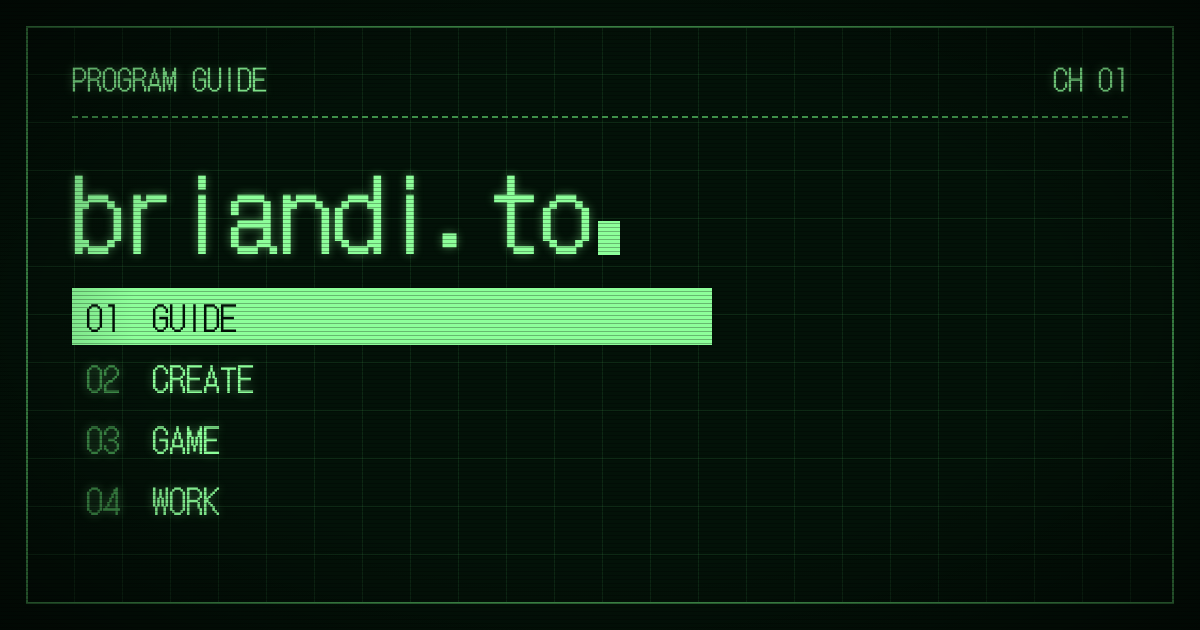
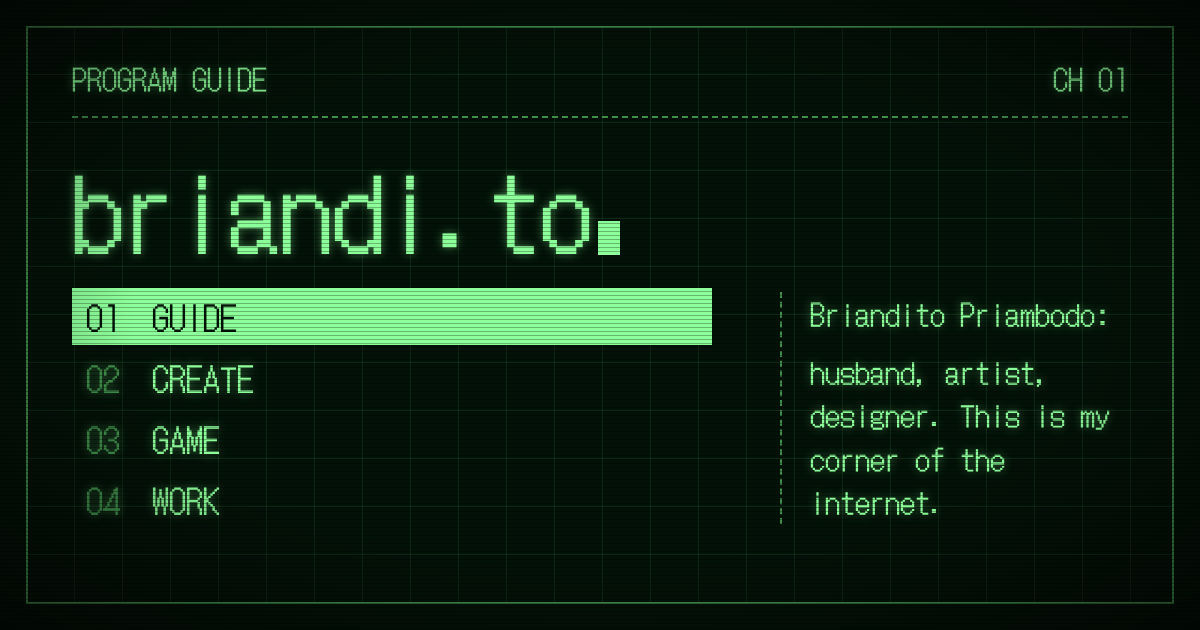
Show the owner's line on the share image and use it with a colon in the descriptions
Claude-Session: https://claude.ai/code/session_019EEVV9nitEVAEifuDQjQRS

Changed region(s): [[0.6475, 0.573, 0.925, 0.754], [0.6475, 0.4825, 0.925, 0.5429], [0.6783, 0.7841, 0.7708, 0.8143]]

diff --git a/index.html b/index.html
@@ -16,9 +16,9 @@
 </script>
 <meta name="viewport" content="width=device-width, initial-scale=1, viewport-fit=cover">
 <title>briandi.to</title>
-<meta name="description" content="Briandito Priambodo, husband, artist, designer. This is my corner of the internet.">
+<meta name="description" content="Briandito Priambodo: husband, artist, designer. This is my corner of the internet.">
 <meta property="og:title" content="briandi.to">
-<meta property="og:description" content="Briandito Priambodo, husband, artist, designer. This is my corner of the internet.">
+<meta property="og:description" content="Briandito Priambodo: husband, artist, designer. This is my corner of the internet.">
 <link rel="icon" href="favicon.ico" sizes="any">
 <link rel="icon" type="image/png" sizes="32x32" href="meta/icon-32.png">
 <link rel="icon" type="image/png" sizes="192x192" href="meta/icon-192.png">
@@ -30,12 +30,12 @@
 <meta property="og:image" content="https://briandi.to/meta/share.png">
 <meta property="og:image:width" content="1200">
 <meta property="og:image:height" content="630">
-<meta property="og:image:alt" content="briandi.to in green on a black program guide screen">
+<meta property="og:image:alt" content="briandi.to in green on a black program guide screen, with Briandito Priambodo: husband, artist, designer">
 <meta name="twitter:card" content="summary_large_image">
 <meta name="twitter:site" content="@briandito">
 <meta name="twitter:creator" content="@briandito">
 <meta name="twitter:title" content="briandi.to">
-<meta name="twitter:description" content="Briandito Priambodo, husband, artist, designer. This is my corner of the internet.">
+<meta name="twitter:description" content="Briandito Priambodo: husband, artist, designer. This is my corner of the internet.">
 <meta name="twitter:image" content="https://briandi.to/meta/share.png">
 <meta name="theme-color" content="#030403">
 <link rel="preconnect" href="https://fonts.googleapis.com">

diff --git a/create/index.html b/create/index.html
@@ -21,7 +21,7 @@
 <meta property="og:image" content="https://briandi.to/meta/share.png">
 <meta property="og:image:width" content="1200">
 <meta property="og:image:height" content="630">
-<meta property="og:image:alt" content="briandi.to in green on a black program guide screen">
+<meta property="og:image:alt" content="briandi.to in green on a black program guide screen, with Briandito Priambodo: husband, artist, designer">
 <meta name="twitter:card" content="summary_large_image">
 <meta name="twitter:site" content="@briandito">
 <meta name="twitter:creator" content="@briandito">

diff --git a/game/index.html b/game/index.html
@@ -21,7 +21,7 @@
 <meta property="og:image" content="https://briandi.to/meta/share.png">
 <meta property="og:image:width" content="1200">
 <meta property="og:image:height" content="630">
-<meta property="og:image:alt" content="briandi.to in green on a black program guide screen">
+<meta property="og:image:alt" content="briandi.to in green on a black program guide screen, with Briandito Priambodo: husband, artist, designer">
 <meta name="twitter:card" content="summary_large_image">
 <meta name="twitter:site" content="@briandito">
 <meta name="twitter:creator" content="@briandito">

diff --git a/guide/index.html b/guide/index.html
@@ -21,7 +21,7 @@
 <meta property="og:image" content="https://briandi.to/meta/share.png">
 <meta property="og:image:width" content="1200">
 <meta property="og:image:height" content="630">
-<meta property="og:image:alt" content="briandi.to in green on a black program guide screen">
+<meta property="og:image:alt" content="briandi.to in green on a black program guide screen, with Briandito Priambodo: husband, artist, designer">
 <meta name="twitter:card" content="summary_large_image">
 <meta name="twitter:site" content="@briandito">
 <meta name="twitter:creator" content="@briandito">

diff --git a/work/index.html b/work/index.html
@@ -21,7 +21,7 @@
 <meta property="og:image" content="https://briandi.to/meta/share.png">
 <meta property="og:image:width" content="1200">
 <meta property="og:image:height" content="630">
-<meta property="og:image:alt" content="briandi.to in green on a black program guide screen">
+<meta property="og:image:alt" content="briandi.to in green on a black program guide screen, with Briandito Priambodo: husband, artist, designer">
 <meta name="twitter:card" content="summary_large_image">
 <meta name="twitter:site" content="@briandito">
 <meta name="twitter:creator" content="@briandito">
